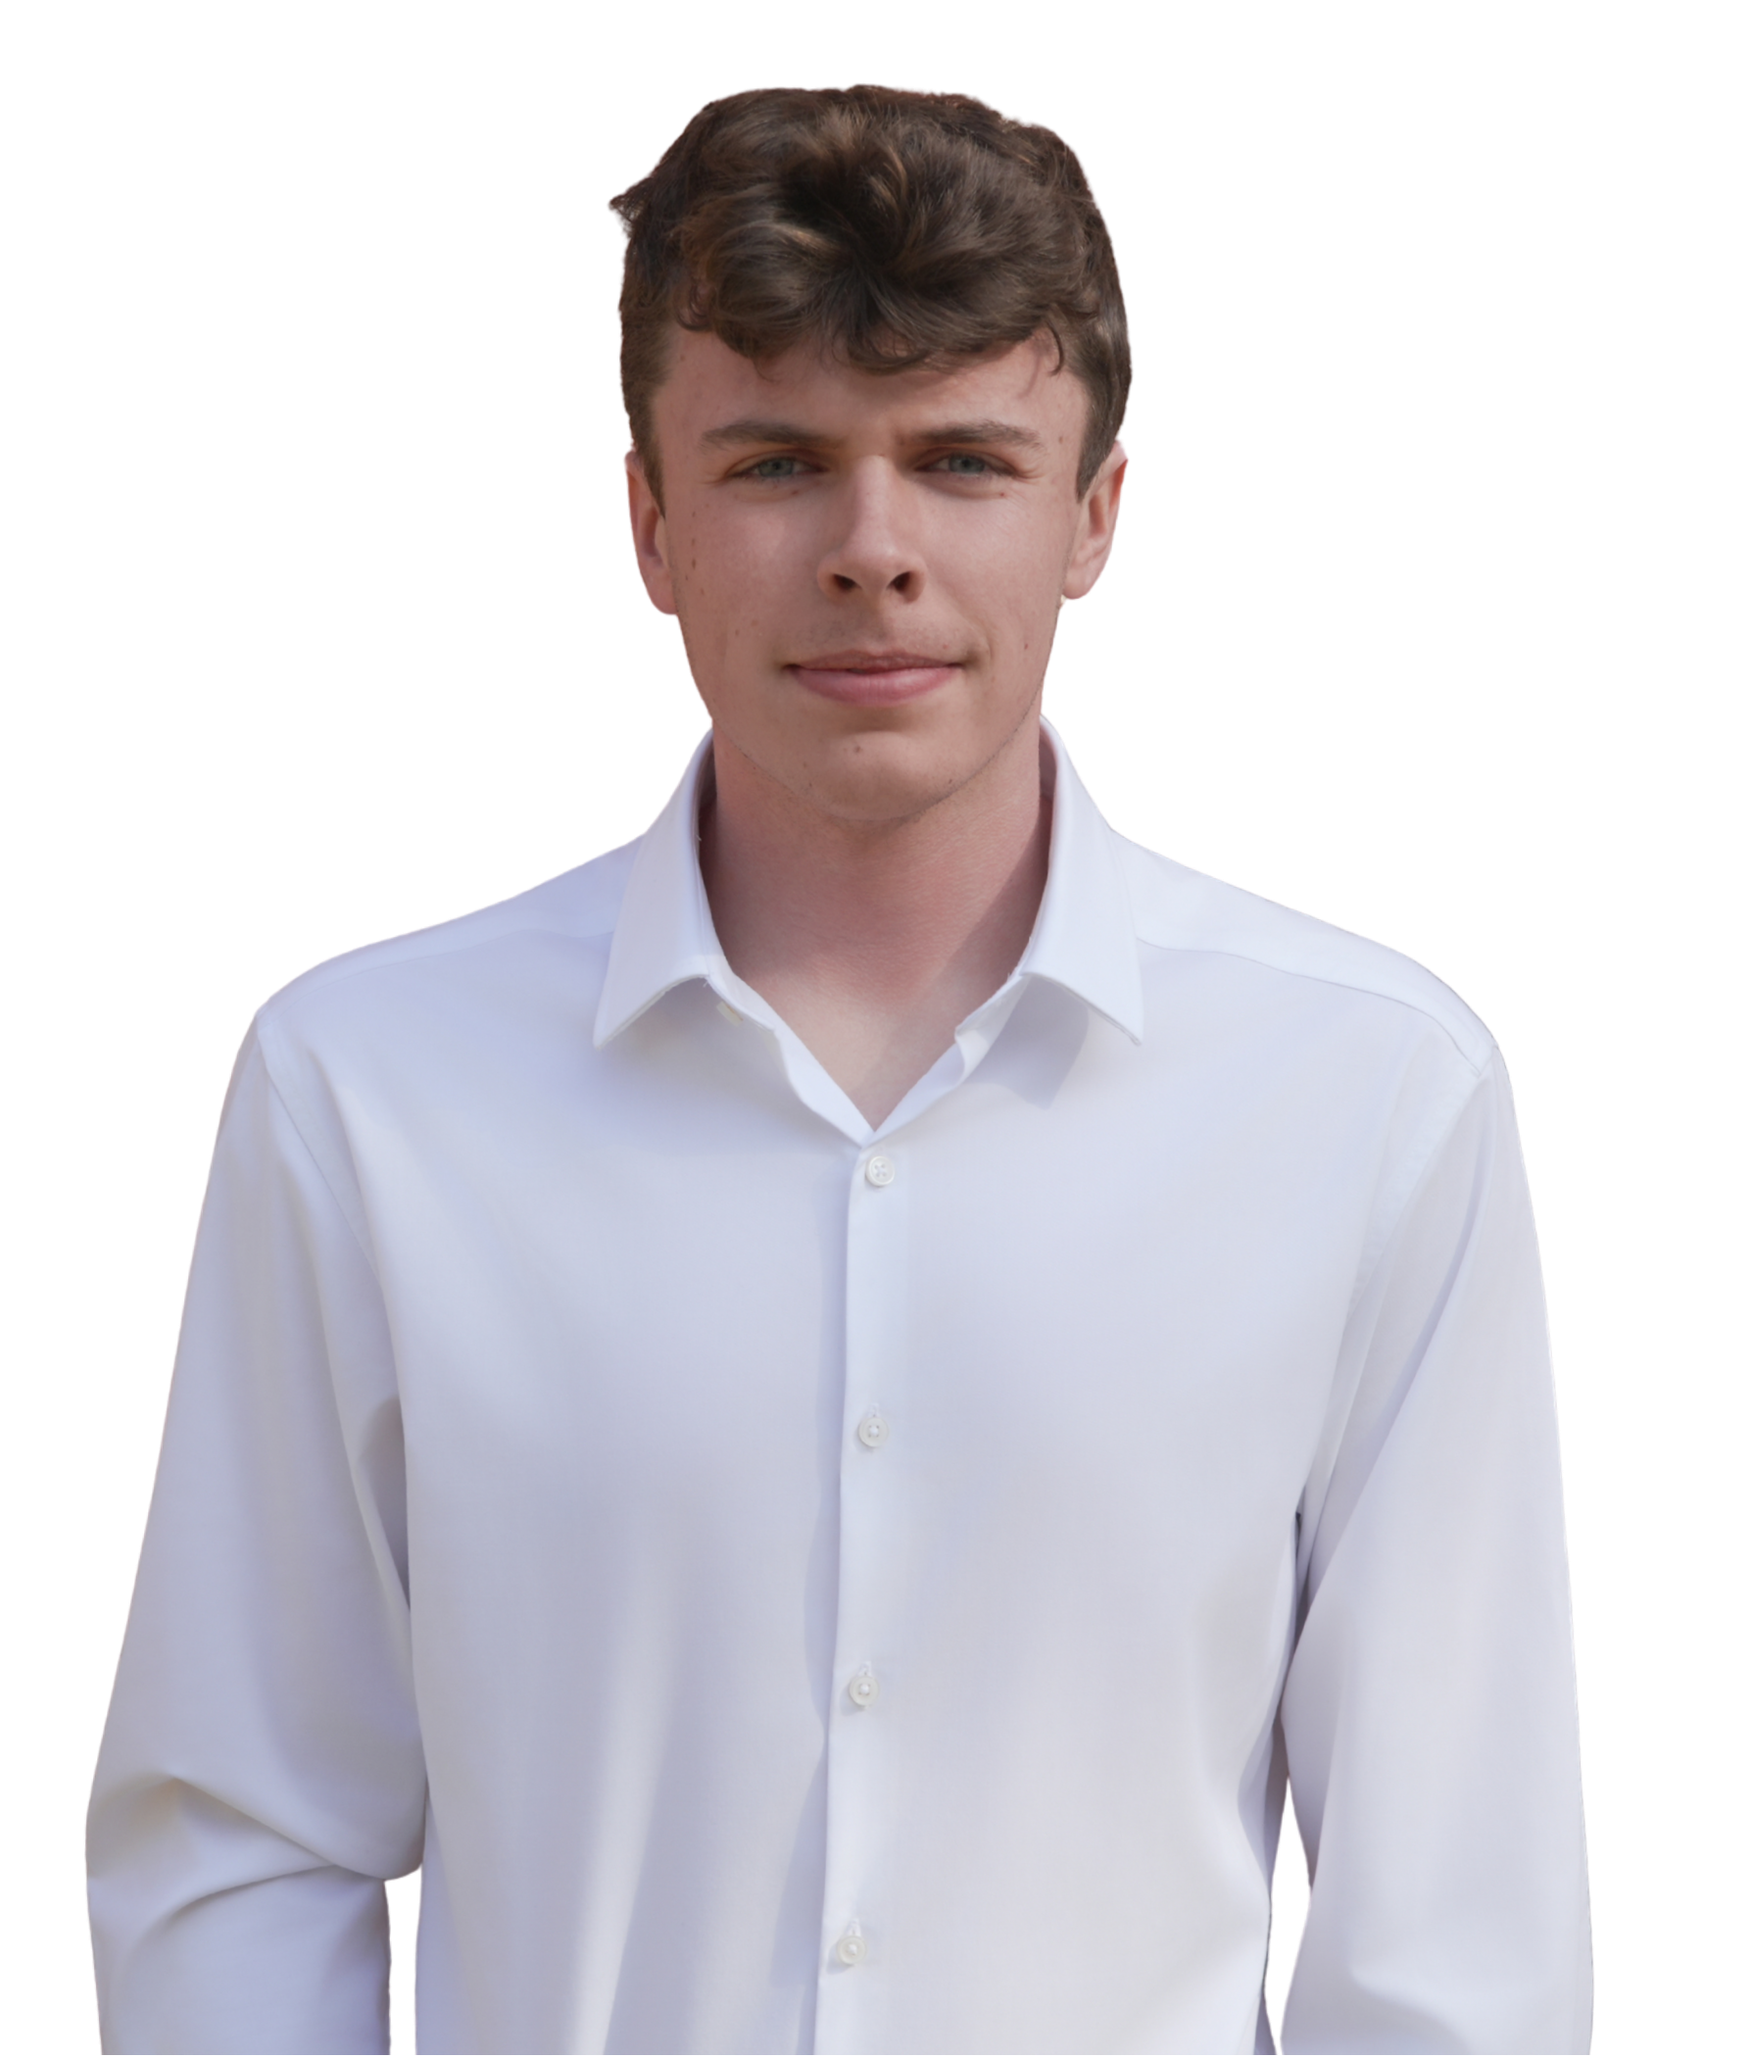
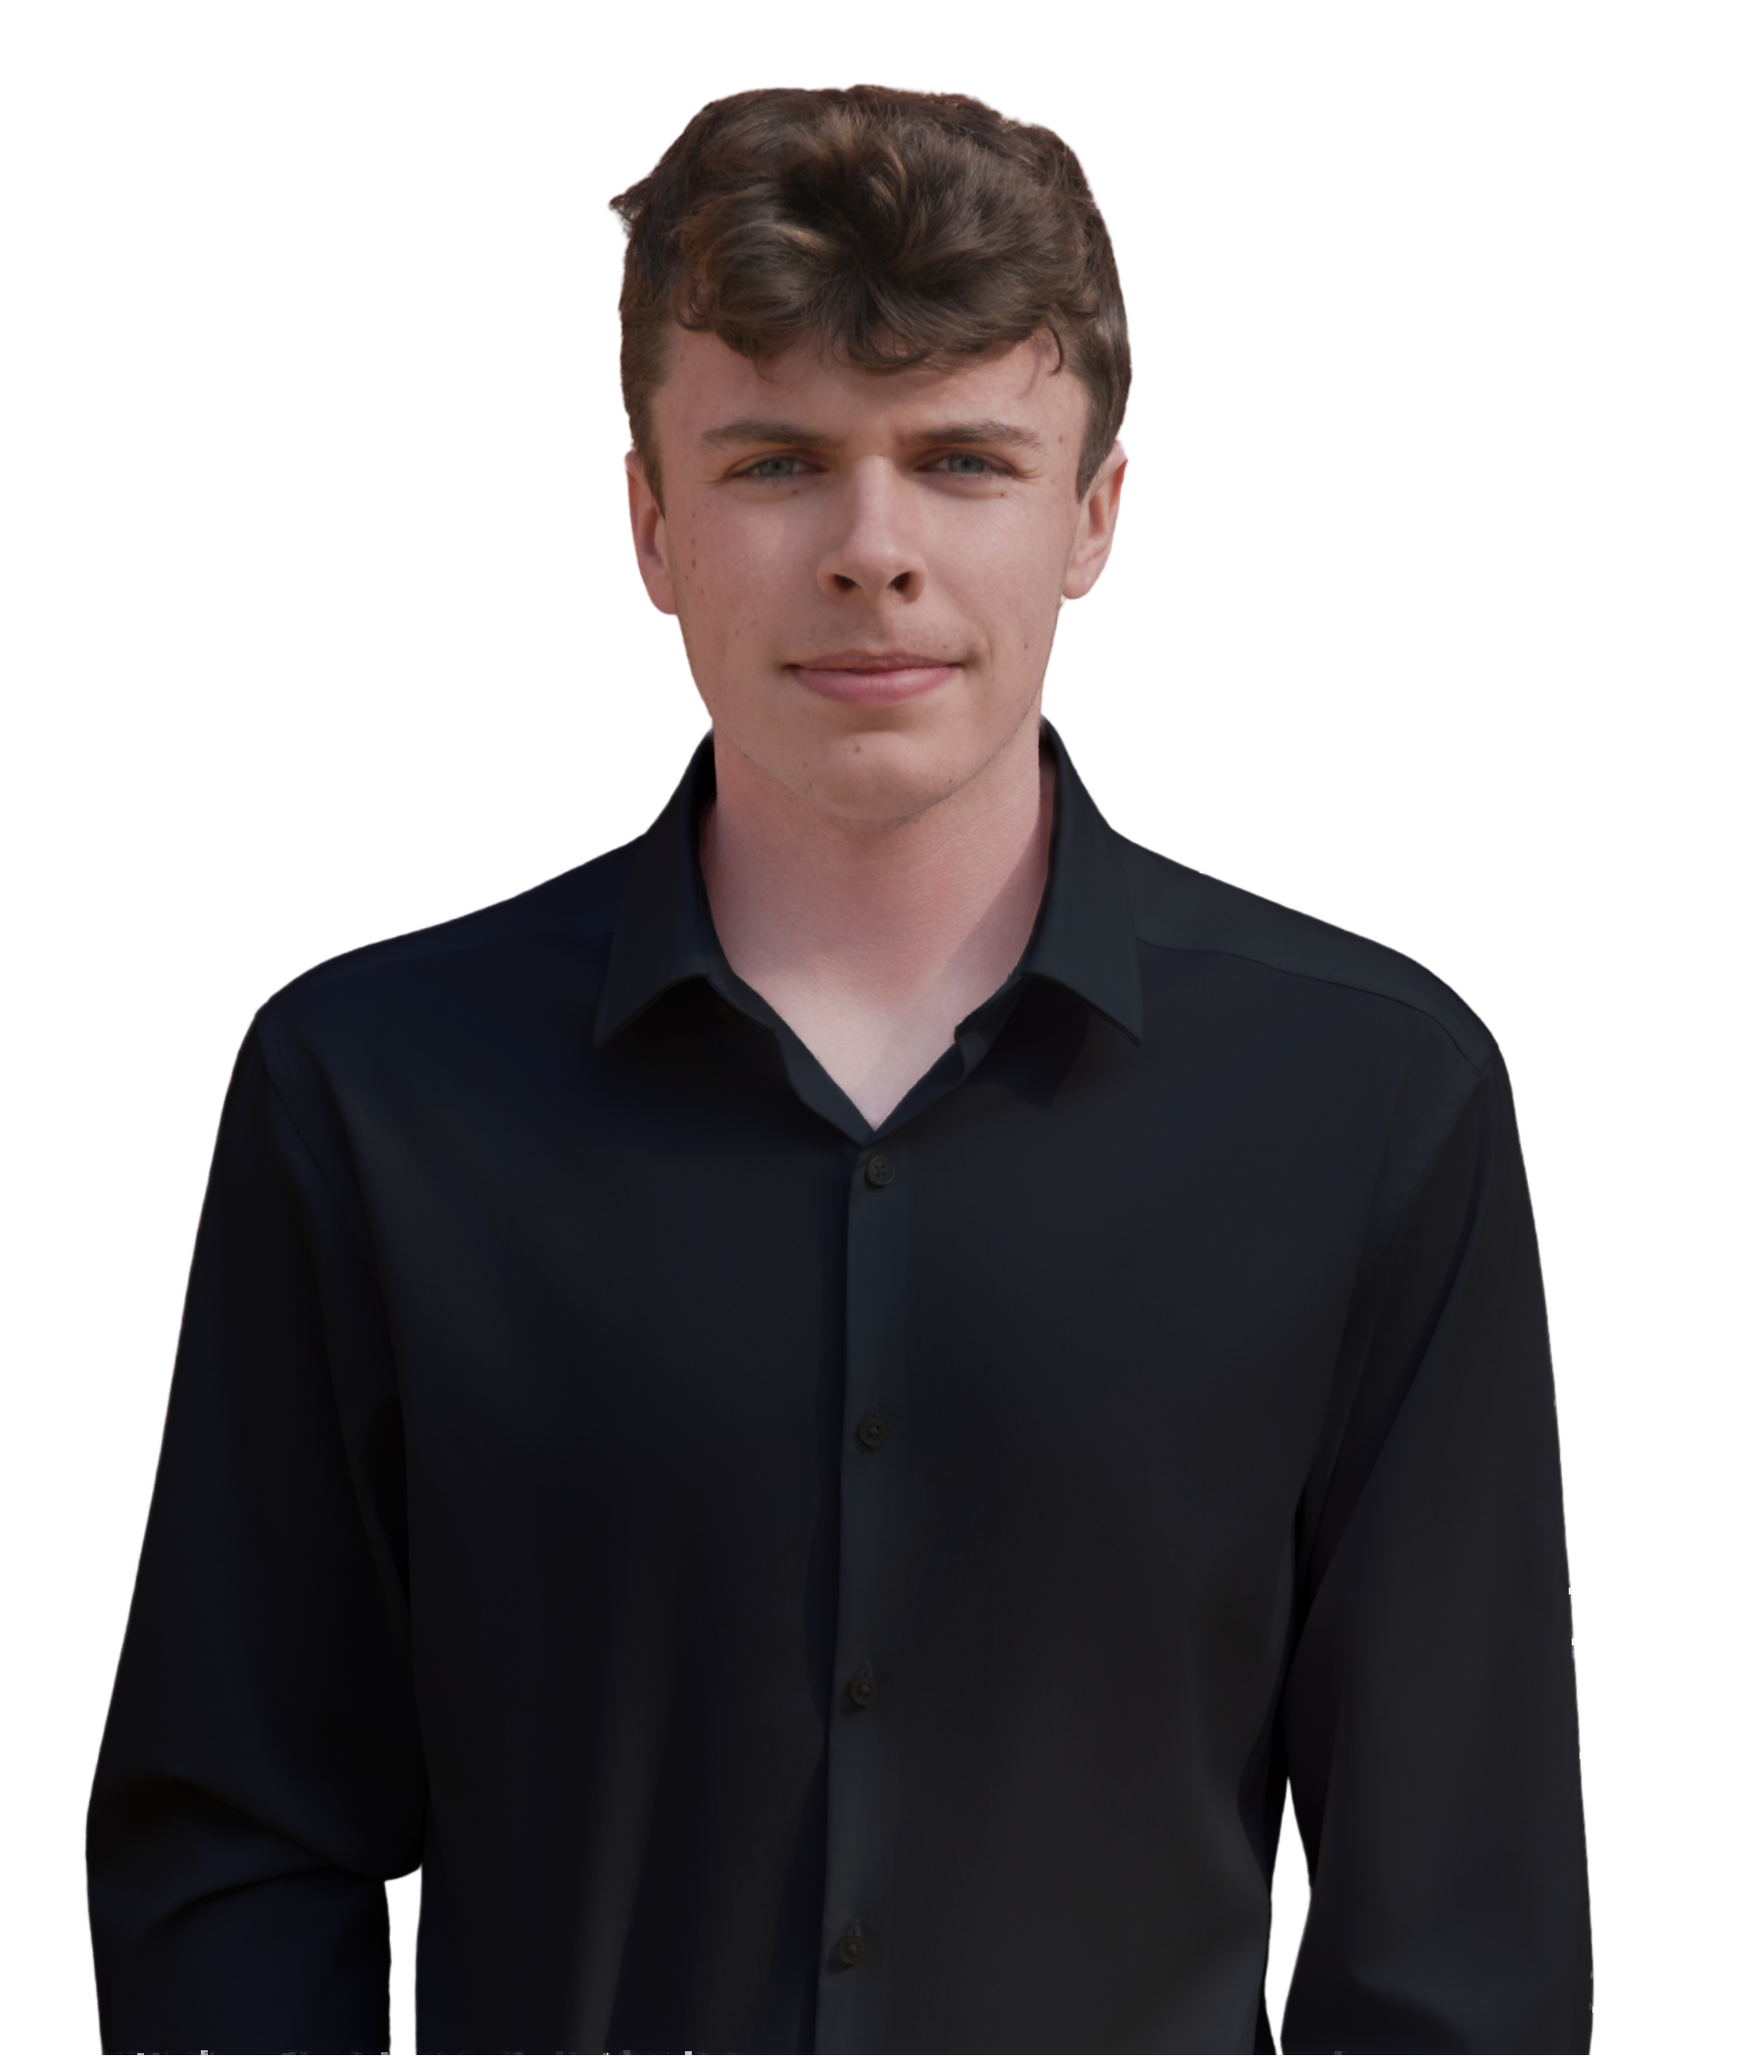
Update Brendan's photo and adjust team photo brightness
- Replace Brendan Hardiman's headshot with new photo
- Add brightness adjustments for Brendan (1.3) and Brock (0.93)
- Shift Brendan's photo positioning slightly down

diff --git a/components/Leadership.tsx b/components/Leadership.tsx
@@ -10,11 +10,11 @@ export default function Leadership() {
     { name: 'Gavin Mestler', role: 'Managing Partner and Co-Founder', image: '/images/V-Gavin Mestler.png', bio: 'Gavin co-founded Methodic Ventures alongside his brother Logan with a mission to preserve and modernize the businesses that America runs on.', imageStyle: { transform: 'scale(1.65) translateY(12%)' }, linkedin: 'https://www.linkedin.com/in/gavinmestler/' },
     { name: 'Logan Mestler', role: 'Managing Partner and Co-Founder', image: '/images/V-Logan Mestler.png', bio: 'Logan co-founded Methodic Ventures alongside his brother Gavin with a mission to preserve and modernize the businesses that America runs on.', imageStyle: { transform: 'scale(1.2) translateY(-2%)' }, linkedin: 'https://www.linkedin.com/in/logan-mestler-753917253/' },
     { name: 'Dean Farber', role: 'Managing Partner and Co-Founder', image: '/images/V-Dean Farber.png', bio: 'Dean is the founder of Duff Goods, an independently operated e-commerce business with $1M+ in revenue, and has experience across product sourcing, online sales, and managing the full lifecycle of a small business from end to end.', imageStyle: { transform: 'scale(1.0) translateY(3%)' }, linkedin: 'https://www.linkedin.com/in/dean-farber-8b2159399/', brightness: 1.2 },
-    { name: 'Brendan Hardiman', role: 'Head of Field Services', image: '/images/V-Brendan Hardiman.png', bio: 'Brendan is the founder of Tuition Landscaping, a landscaping business built from the ground up, with hands-on experience in field operations, client management, and scaling service-based businesses.', imageStyle: { transform: 'scale(1.3) translateY(12%)' } },
+    { name: 'Brendan Hardiman', role: 'Head of Field Services', image: '/images/V-Brendan Hardiman.png', bio: 'Brendan is the founder of Tuition Landscaping, a landscaping business built from the ground up, with hands-on experience in field operations, client management, and scaling service-based businesses.', imageStyle: { transform: 'scale(1.3) translateY(14%)' }, brightness: 1.3 },
     { name: 'Shah Durran', role: 'Head of AI Systems', image: '/images/V-Shah Durran.png', bio: 'Shah is a full stack developer and the founder of Fluidify Systems, a business automation firm that has deployed hundreds of AI-driven systems for businesses across the United States.', imageStyle: { transform: 'scale(1.15) translateY(8%) translateX(4%)', objectPosition: '70% 0%' }, linkedin: 'https://www.linkedin.com/in/shah-durran-ahmed-a38b471a5/' },
     { name: 'Daniel Berlin', role: 'Head of Strategic Development & Partnerships', image: '/images/V-Daniel Berlin.png', bio: 'Dan is the founder and operator of Dirty Gut, a probiotic chocolate brand carried in 70+ grocery stores across the U.S., and has experience managing product, partnerships, and day-to-day operations.', imageStyle: { transform: 'scale(1.1) translateY(2%)' }, linkedin: 'https://www.linkedin.com/in/dirtydan/' },
     { name: 'Jacob McKinney', role: 'Head of Operations and Talent Strategy', image: '/images/V-Jacob McKinney.png', bio: 'Jacob is the co-founder of Junk Teens, a junk removal business in Massachusetts with $2.5M in revenue and 20+ employees, as well as Rage Zone and Junk University.', imageStyle: { transform: 'scale(1.1) translateY(5%)' }, linkedin: 'https://www.linkedin.com/in/jacobmkny/' },
-    { name: 'Brock Alpher', role: 'Head of Marketing and Growth Strategy', image: '/images/V-Brock Alpher.png', bio: 'Brock is the founder of Sneaker Soul, a sole protection solution for sneaker enthusiasts, and has led growth for two $500K+/yr consumer brands. He focuses on scaling businesses through creative marketing and modernized operating systems.', imageStyle: { transform: 'scale(1.35) translateY(15%)' }, linkedin: 'https://www.linkedin.com/in/brock-alpher-0432b81b7/' },
+    { name: 'Brock Alpher', role: 'Head of Marketing and Growth Strategy', image: '/images/V-Brock Alpher.png', bio: 'Brock is the founder of Sneaker Soul, a sole protection solution for sneaker enthusiasts, and has led growth for two $500K+/yr consumer brands. He focuses on scaling businesses through creative marketing and modernized operating systems.', imageStyle: { transform: 'scale(1.35) translateY(15%)' }, linkedin: 'https://www.linkedin.com/in/brock-alpher-0432b81b7/', brightness: 0.93 },
   ]
 
   const handleToggle = (index: number) => {
